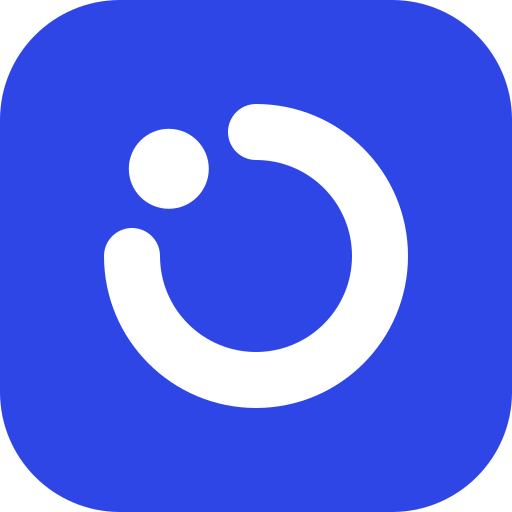
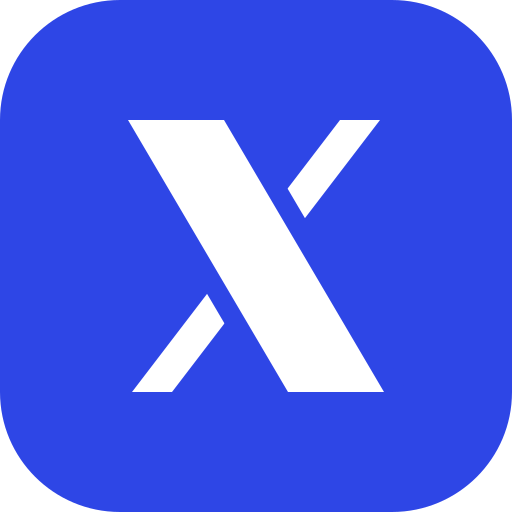
brand: high-contrast X tab mark; drop Skills, languages move to education
- Favicon and app icons: a thick stroke passing over a hairline on the
  cobalt tile, regenerated from one SVG.
- Skills section and its nav link removed; the bio notes Chinese, English
  and Japanese, with JLPT N1 under Osaka and IELTS 7.5 under HUST.

Changed region(s): [[0.1875, 0.1875, 0.8125, 0.8125]]

diff --git a/_pages/about.html b/_pages/about.html
@@ -75,7 +75,7 @@ sitemap: true
 
       <div class="bio">
         <p>I build AI agents at <a href="https://initial-s.com/" target="_blank" rel="noopener">Initial. S</a> in Tokyo, from the agent harness to the interface and the cloud services behind it.</p>
-        <p>I&rsquo;m also a Master&rsquo;s student at <a href="https://www.osaka-u.ac.jp/ja" target="_blank" rel="noopener">The University of Osaka</a>, advised by <a href="https://sites.google.com/site/chuanxiao1983/" target="_blank" rel="noopener">Prof. Chuan Xiao</a>, working on LLM agents and benchmarks.</p>
+        <p>I&rsquo;m also a Master&rsquo;s student at <a href="https://www.osaka-u.ac.jp/ja" target="_blank" rel="noopener">The University of Osaka</a>, advised by <a href="https://sites.google.com/site/chuanxiao1983/" target="_blank" rel="noopener">Prof. Chuan Xiao</a>, working on LLM agents and benchmarks. I work in Chinese, English, and Japanese.</p>
       </div>
 
       <ul class="links">
@@ -217,7 +217,7 @@ sitemap: true
         <div class="item-body">
           <h3 class="item-title"><a href="https://www.osaka-u.ac.jp/ja" target="_blank" rel="noopener">The University of Osaka</a></h3>
           <p class="item-role"><b>Master of Information Science and Technology</b></p>
-          <p class="item-desc">Graduate School of Information Science and Technology. Advised by <a href="https://sites.google.com/site/chuanxiao1983/" target="_blank" rel="noopener">Prof. Chuan Xiao</a>. Researching LLMs, agents, and benchmarking.</p>
+          <p class="item-desc">Graduate School of Information Science and Technology. Advised by <a href="https://sites.google.com/site/chuanxiao1983/" target="_blank" rel="noopener">Prof. Chuan Xiao</a>. Researching LLMs, agents, and benchmarking. JLPT N1 (Japanese).</p>
         </div>
       </article>
 
@@ -235,24 +235,12 @@ sitemap: true
         <div class="item-body">
           <h3 class="item-title"><a href="https://www.hust.edu.cn/" target="_blank" rel="noopener">Huazhong University of Science and Technology</a></h3>
           <p class="item-role"><b>BEng, Cyberspace Security</b></p>
-          <p class="item-desc">School of Cyber Science and Engineering. Coursework archived in <a href="https://github.com/zichuanxu/HUST-CSE-Experiments" target="_blank" rel="noopener">HUST-CSE-Experiments</a>.</p>
+          <p class="item-desc">School of Cyber Science and Engineering. Coursework archived in <a href="https://github.com/zichuanxu/HUST-CSE-Experiments" target="_blank" rel="noopener">HUST-CSE-Experiments</a>. IELTS 7.5 (English, C1).</p>
         </div>
       </article>
     </div>
   </section>
 
-  <!-- ================================ skills ============================== -->
-  <section class="sec" id="skills" aria-labelledby="skills-title">
-    <div class="wrap">
-      <h2 class="sec-title" id="skills-title">Skills</h2>
-      <dl class="skills">
-        <div><dt>Full-stack</dt><dd>TypeScript, React, Vue.js, Node.js, Go, Python, Java, Spring Boot, Django, Laravel, PostgreSQL, MySQL, Redis</dd></div>
-        <div><dt>AI &amp; ML</dt><dd>PyTorch, Hugging Face, ONNX, Codex, Claude Code, Amazon Bedrock</dd></div>
-        <div><dt>Cloud &amp; DevOps</dt><dd>AWS, Docker, Terraform, Linux, Git, GitHub, Apache Airflow</dd></div>
-        <div><dt>Languages</dt><dd>Chinese (native), English (IELTS 7.5 · C1), Japanese (JLPT N1 · B2)</dd></div>
-      </dl>
-    </div>
-  </section>
 </main>
 
 <footer class="foot" id="contact">

diff --git a/assets/css/site-2026.css b/assets/css/site-2026.css
@@ -1,6 +1,6 @@
 /* zichuanxu.me — "Editorial Cobalt" (2026-11-05).
    Instrument Serif for display, Inter for text, JetBrains Mono for metadata.
-   Paper, ink and one cobalt accent; the mark is an open loop with one dot.
+   Paper, ink and one cobalt accent; the tab mark is a high-contrast X.
    Tokens are declared three times: light, explicit dark, and system dark.
    Motion is scoped to .has-js (set by theme-init.html) and only runs under
    prefers-reduced-motion: no-preference. */
@@ -109,7 +109,7 @@ button { font: inherit; color: inherit; }
 
 /* =========================================================================
    Homepage: one reading column (2026-11-05). Bio first, then papers,
-   experience, education and skills as compact lists. The page narrows
+   experience and education as compact lists. The page narrows
    --wrap so the top bar lines up with the column.
    ========================================================================= */
 body.home { --wrap: calc(720px + 2 * var(--gutter)); }
@@ -181,14 +181,6 @@ body.home { --wrap: calc(720px + 2 * var(--gutter)); }
   .item-when small { display: inline; }
   .item-when small::before { content: " · "; }
 }
-
-/* ---- skills: one line per group --------------------------------------- */
-.skills { margin-top: 8px; }
-.skills > div { display: grid; grid-template-columns: 160px minmax(0, 1fr); gap: 4px 24px; padding-block: 14px; border-bottom: 1px solid var(--rule); }
-.skills > div:last-child { border-bottom: 0; }
-.skills dt { padding-top: 3px; font: 500 12.5px/1.5 var(--mono); color: var(--mute); }
-.skills dd { margin: 0; line-height: 1.6; color: var(--ink-2); }
-@media (max-width: 560px) { .skills > div { grid-template-columns: minmax(0, 1fr); } }
 
 /* ---- footer ------------------------------------------------------------ */
 .foot { margin-top: clamp(64px, 8vw, 96px); border-top: 1px solid var(--rule); }

diff --git a/_includes/site-2026/bar.html b/_includes/site-2026/bar.html
@@ -7,7 +7,6 @@
         <a href="#publications" data-spy="publications">Publications</a>
         <a href="#experience" data-spy="experience">Experience</a>
         <a href="#education" data-spy="education">Education</a>
-        <a href="#skills" data-spy="skills">Skills</a>
       </nav>
       {%- endif %}
       <button class="toggle" type="button" aria-label="Switch theme">
